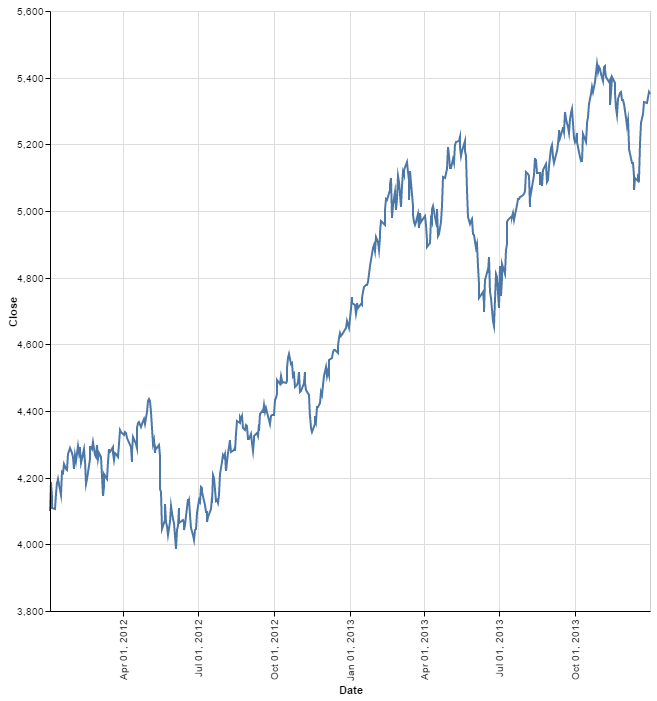
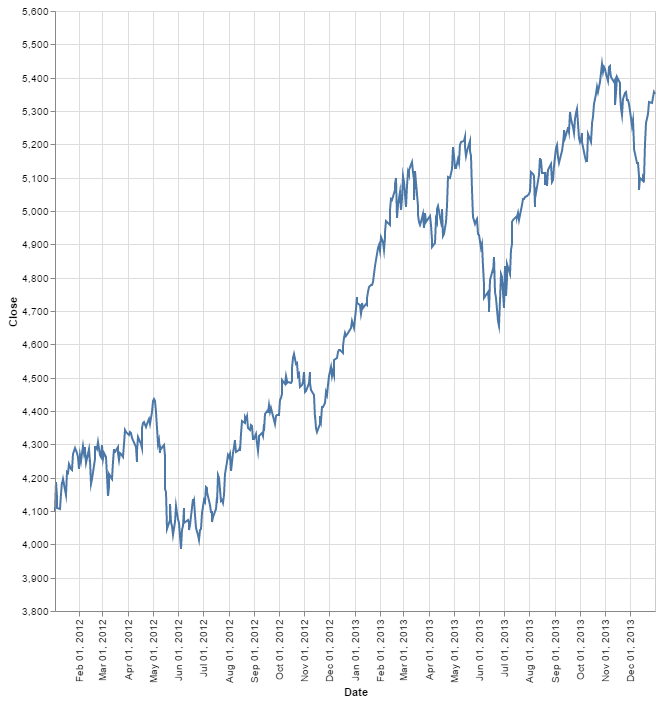
Updated to latest version of vega.

diff --git a/template.html b/template.html
@@ -1,6 +1,6 @@
 <head>
-  <script src="https://cdnjs.cloudflare.com/ajax/libs/vega/3.0.0-rc4/vega.js"></script>
-  <script src="https://cdnjs.cloudflare.com/ajax/libs/vega-lite/2.0.0-beta.10/vega-lite.js"></script>
+  <script src="https://cdnjs.cloudflare.com/ajax/libs/vega/3.0.0-rc5/vega.js"></script>
+  <script src="https://cdnjs.cloudflare.com/ajax/libs/vega-lite/2.0.0-beta.11/vega-lite.js"></script>
   <script src="https://cdnjs.cloudflare.com/ajax/libs/vega-embed/3.0.0-beta.19/vega-embed.js"></script>
 </head>
 <body style="background-color: white;">
